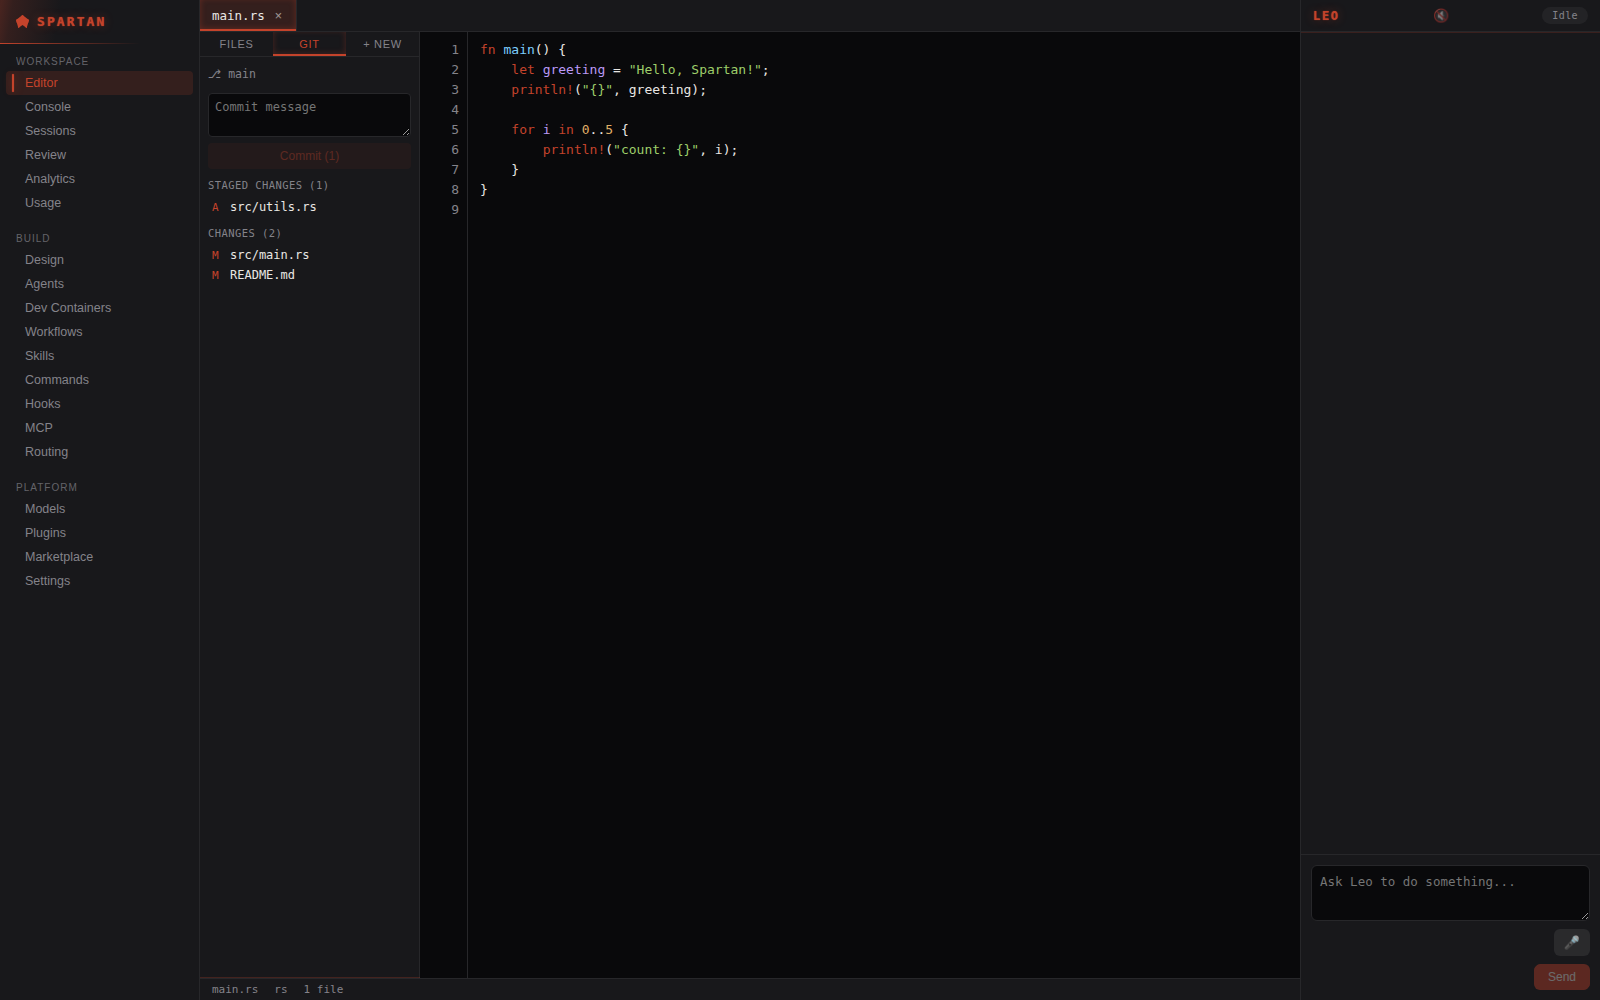
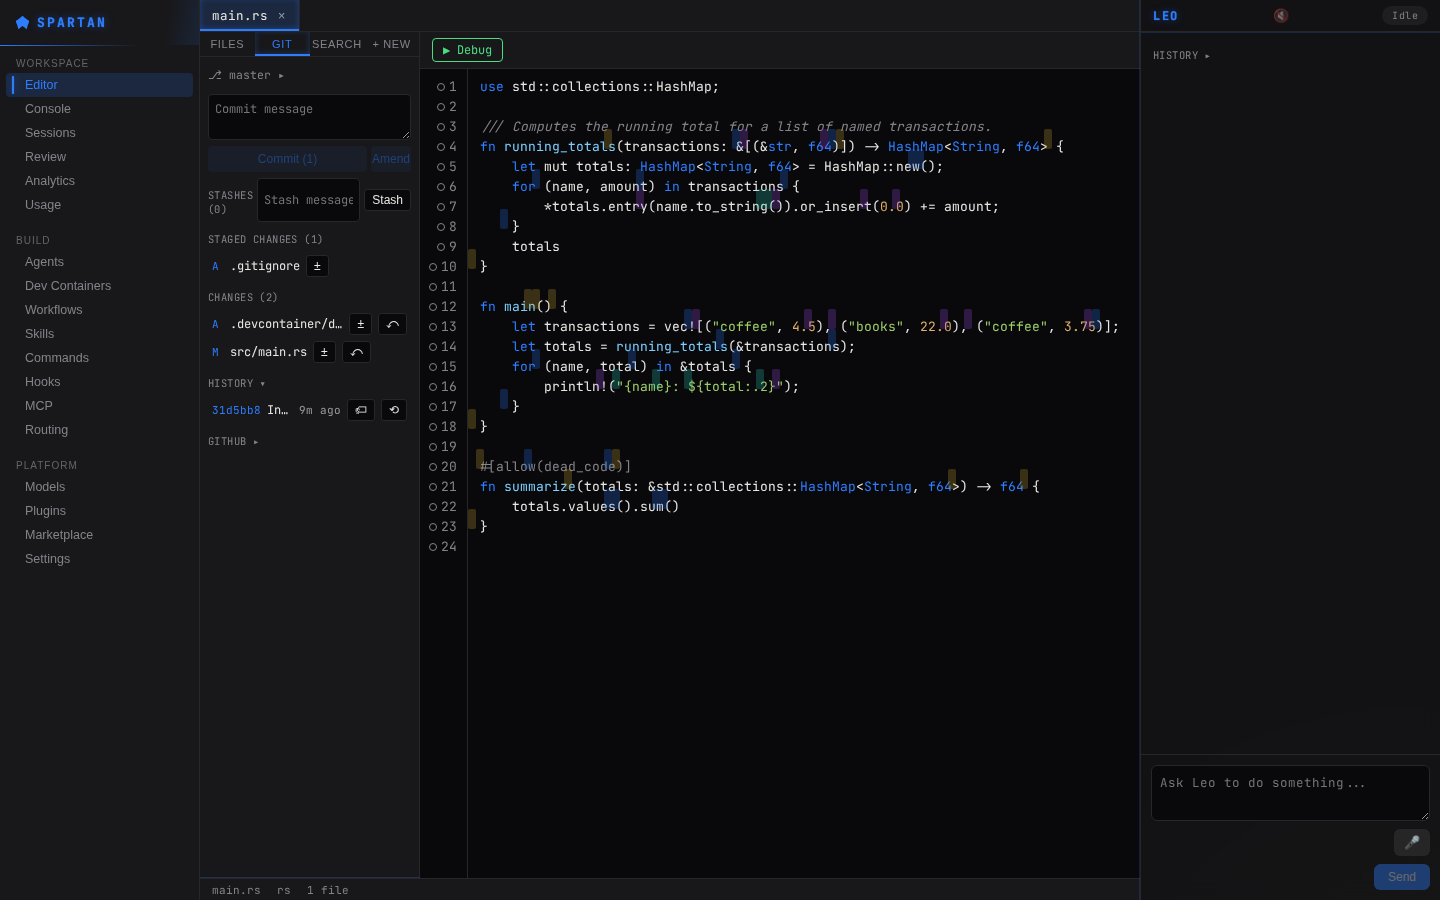
Refresh documentation and screenshots to match the current app
Screenshots in docs/screenshots/ predated the GUI Builder removal and
the many features shipped since (real tree-sitter highlighting,
bracket-pair colors, blue/gold rebrand, Git diff/branches/history,
Leo panel). Recaptured all 10 (6 desktop + 4 web) as real Playwright +
Chromium screenshots against a real spartan-devserver process and a
real git project fixture -- the desktop shots use the established
real-WebSocket-shim technique (window.spartan forwarding every call
over a genuine WebSocket, standing in only for Electron's unlaunchable
contextBridge hop), the web shots use web/'s own genuine
BackendClient.connect() with no shim at all.

Also corrected several README claims that had gone stale independent
of the screenshots: desktop/README.md said LSP and DAP had "no wiring
at all" in this shell, which stopped being true many increments ago;
web/README.md said Leo's chat UI, redo, and tree-sitter highlighting
were all still missing, and that only one file could be open at a
time -- all four are real now. Refreshed the site's stale hero
screenshot (still showed the removed Design nav item) the same way;
left the four theme screenshots for a follow-up pass.

Claude-Session: https://claude.ai/code/session_01UYLqWzwJvaRwECr3TTDG1t

diff --git a/web/README.md b/web/README.md
@@ -5,13 +5,13 @@ decision the user made explicitly (§75.85, §75.86): editing/buffer logic
 works standalone client-side in the browser (File System Access + WASM, no
 backend needed), with a second, independent backend-mode editing path
 activating whenever a local `spartan-devserver` instance is reachable over
-its real WebSocket transport (§75.88). **When a devserver is connected: Git,
-real LSP diagnostics/hover/autocomplete, real DAP breakpoint/step debugging,
-and real Android device/build/logcat tooling are all real and wired here —
-the one capability still missing versus the desktop shell is a Leo chat UI
-in this app specifically** (Leo's own backend methods are reachable, this
-app just has no chat panel calling them yet). See "What's not built yet"
-below for the honest, current account.
+its real WebSocket transport (§75.88). **When a devserver is connected: Git
+(including PR listing, per-hunk staging, branches, stash, tags, merge/
+cherry-pick), real LSP diagnostics/hover/autocomplete/rename/references,
+real DAP breakpoint/step/watch debugging, real Android device/build/logcat
+tooling, and a real, persistent Leo chat panel (task #285 — a direct port of
+`desktop/`'s own) are all real and wired here.** See "What's not built yet"
+below for the honest, current account of what's genuinely still missing.
 
 Inspired by vscode.dev's *concepts* only — a browser-based editor working
 directly against real local files via a native browser API, no server round
@@ -21,20 +21,24 @@ repository already applies to the desktop shells (no Monaco/CodeMirror
 
 ## Screenshots
 
-Real, unedited Playwright + Chromium captures of this exact app running
-against a real `vite dev` server. The native `showDirectoryPicker()` dialog
-can't be driven headlessly, so these use the same real, documented technique
-described above under "Real, executed verification" — an Origin Private File
-System directory substituted in for `window.showDirectoryPicker()`, real
-files written into it, then the app's own unmodified code opens and edits
-them normally.
+Real, unedited Playwright + Chromium captures of the actual compiled
+production build (`npm run build`) served by a real running
+`spartan-devserver` process against a real git project fixture, using the
+app's own genuine `BackendClient.connect()` — no mock, no shim of any kind.
+These show the backend-connected mode (Git, real tree-sitter syntax
+highlighting, Leo panel), the richer of `web/`'s two real editing paths and
+the one most of this project's recent feature work has landed in; the
+File System Access + WASM pure-client-side path (`components/Editor.tsx`,
+`components/FileTree.tsx`) is exercised instead by the headless
+File-System-Access-substitution technique described above under "Real,
+executed verification".
 
 | | |
 |---|---|
-| ![Initial empty state](../docs/screenshots/web/01-initial-empty-state.png) | ![Project opened, file tree](../docs/screenshots/web/02-project-opened-file-tree.png) |
-| Initial empty state — Chromium detected as supported, no fallback shown | A real project opened via the File System Access API, file tree populated |
+| ![Initial connected state](../docs/screenshots/web/01-initial-empty-state.png) | ![Project opened, file tree](../docs/screenshots/web/02-project-opened-file-tree.png) |
+| Connected to a local devserver — toolbar status, Leo panel, Backend file tree, no file open yet | The real Backend file tree expanded, showing a real project's directory structure |
 | ![Editor with syntax highlighting](../docs/screenshots/web/03-editor-with-syntax-highlighting.png) | ![Live editing with dirty marker](../docs/screenshots/web/04-editing-live-highlight-dirty-marker.png) |
-| Real client-side syntax highlighting via `highlight.js` | Live typing re-highlights immediately; status bar shows the real unsaved marker |
+| Real tree-sitter syntax highlighting, opened through the Backend file tree | Live typing re-highlights immediately; the tab and status bar show the real unsaved marker |
 forked/vendored either) — see the root `CLAUDE.md`.
 
 ## What's real here
@@ -50,16 +54,19 @@ forked/vendored either) — see the root `CLAUDE.md`.
   `src/buffer.ts` and that crate's own README/doc comments.
 - **Real save-to-disk** via the File System Access API's writable-stream
   interface (Ctrl+S).
-- **Real (single-step) undo** via the real `Document`'s own branching undo
-  tree, exposed through the WASM binding (Ctrl+Z). **No redo yet** — a real,
-  deliberate, named scope cut carried over verbatim from
-  `spartan-buffer-wasm`'s own doc comment; every other real Spartan UI
-  surface builds redo as a layer *above* `Document`, not inside it, and that
-  layer hasn't been built here yet.
-- **Real client-side syntax highlighting** via `highlight.js`, the same
-  approach and the same named fidelity tradeoff (lexical, not
-  tree-sitter/semantic) already used and documented in `desktop/src/syntax.ts`
-  — this file is a direct, unmodified copy of that one.
+- **Real undo and redo** via the real `Document`'s own branching undo tree,
+  exposed through the WASM binding (Ctrl+Z / Ctrl+Shift+Z / Ctrl+Y). Redo is
+  a thin layer above `Document` (a `redo_stack`), the same pattern every
+  other real Spartan UI surface already uses — closed in `spartan-buffer-
+  wasm` itself, matching this crate's own doc comment.
+- **Real client-side syntax highlighting** via a three-tier chain — real
+  tree-sitter (`web-tree-sitter`, in-process WASM parsing) for the 8
+  languages with a bundled grammar, `highlight.js` while a grammar is still
+  loading and for languages with none, plain escaped text as the final
+  fallback — the same chain, same capture-name-to-CSS mapping, and the same
+  incremental (per-document, not whole-file-per-keystroke) re-parse
+  `desktop/src/syntax.ts`/`treeSitter.ts` already use; this file is a direct
+  copy of those two.
 - **Real file tree** with lazy, on-demand directory listing through the same
   API, mirroring `desktop/src/components/FileTree.tsx`'s own lazy-expansion
   design.
@@ -95,13 +102,13 @@ forked/vendored either) — see the root `CLAUDE.md`.
 
 ## What's not built yet (named honestly, not silently missing)
 
-- **Git, LSP (diagnostics/hover/completion), DAP, and Android tooling are all
-  real and wired here now; Leo's own chat UI is the one real gap left in
-  this app specifically** (desktop/ has had a real, persistent Leo chat
-  panel since §75.61 — this section used to say the opposite, before those
-  later increments landed; kept the original account below since it's still
-  the real story of *how* the backend-mode path came to exist, just
-  corrected where it went stale). A later increment (Track A,
+- **Git, LSP (diagnostics/hover/completion/rename/references/call
+  hierarchy), DAP, Android tooling, and Leo's own chat panel are all real
+  and wired here now** (this section used to say Leo's chat UI was the one
+  real gap left in this app specifically — task #285 closed that; the
+  original account below is kept since it's still the real story of *how*
+  the backend-mode path came to exist, just corrected where it went stale).
+  A later increment (Track A,
   `crates/spartan-devserver`) answered the
   token-delivery design question this section used to name as unresolved:
   the devserver serves this app's own static files, so a same-origin
@@ -178,32 +185,31 @@ forked/vendored either) — see the root `CLAUDE.md`.
   generic `spartan-backend` dispatch method). Real, live, end-to-end
   verified against a real Android/Gradle fixture and this environment's
   own real (if device-less) `adb`/`gradle` installs.
-- **Leo's own chat UI is the one real capability gap left in this app.**
-  Every `leo_*` method Leo's execute/verify loop needs is already a real,
-  generic `spartan-backend` dispatch method reachable through
-  `BackendClient` with zero protocol changes required — the same shape
-  every other backend-mode feature above was closed with. No component
-  calls them from this app yet; that remains real, deliberately deferred,
-  unstarted follow-up work, not a design limitation.
+- **Leo's own chat panel is real and wired in (task #285).** `LeoChatPanel.tsx`
+  is a direct port of `desktop/`'s own — same real state machine, same
+  `leo_start_task`/`leo_approve_plan`/`leo_next_step`/`leo_approve_call`/
+  `leo_retry`/`leo_cancel`/`leo_session_history` dispatch methods, same
+  random-thoughts/voice-I/O features — reached over `BackendClient` with
+  zero protocol changes (every method was already a generic
+  `spartan-backend` dispatch method). Docked as a persistent sidebar
+  whenever a devserver connection is live, matching `desktop/`'s own
+  always-visible placement.
 - **The two editing paths are independent, not unified.** A real, named
   consequence, not an oversight: the folder opened via "Open Folder…"
   (File System Access) and the devserver's own project root
   (`--project-root:`) can be different directories — nothing in this app
-  verifies they match, and `activeContent` only ever holds one open file
-  at a time regardless of which path opened it last. In the common case
-  (the devserver is launched from the same project the user opens), the
-  two happen to agree, but this app makes no attempt to enforce or check
-  that.
-- **Single file open at a time, across both paths combined.** No tabs, no
-  multi-file model — a real, narrow first-increment scope, the same kind
-  of deliberate v1 cut this project's own history already applies
-  elsewhere.
+  verifies they match. In the common case (the devserver is launched from
+  the same project the user opens), the two happen to agree, but this app
+  makes no attempt to enforce or check that.
+- **Multi-file tabs are real (task #257)**, covering both editing paths
+  combined — `openTabs`/`activeIndex` in `App.tsx` hold every open file (of
+  either kind) as one derived-state tab model, reusing an already-open tab
+  of the same kind+path rather than duplicating it, matching `desktop/`'s
+  own tab-bar convention.
 - **Chromium-only.** The File System Access API is not implemented in
   Firefox or Safari. This is a real, permanent platform limit, not a bug —
   the app detects this and shows an honest message instead of failing
   silently or crashing.
-- **No tree-sitter.** Same lexical-only tradeoff `desktop/`'s own editor
-  already carries and documents.
 
 ## Layout
 

diff --git a/desktop/README.md b/desktop/README.md
@@ -45,15 +45,29 @@ deleted).
 
 A real audit (§75.62) originally found several real, working wgpu-shell
 features not yet ported here. Since closed: syntax highlighting (§75.63,
-via `highlight.js` client-side rather than tree-sitter -- see
-`src/syntax.ts`'s own doc comment for the named fidelity tradeoff), a real
-terminal (Console) and multi-CLI Sessions (§75.64, streaming PTY output
-over Leo's own async `Event` mechanism), and a real Git panel + Settings
-screen (§75.65). **Still real, open gaps**: LSP and DAP (this shell has
-no language-server or debugger wiring at all -- `spartan-editor-core`
-remains the only place either is real), and the unsaved-changes
-confirmation modal on close/switch (closing a dirty tab here currently
-discards changes silently). Each screen without real content still has a
+originally via `highlight.js`, since replaced by a real three-tier chain
+-- in-process tree-sitter (`web-tree-sitter`) for languages with a bundled
+grammar, `highlight.js` while a grammar loads or for languages with none,
+plain text as the final fallback -- see `src/syntax.ts`/`src/treeSitter.ts`),
+a real terminal (Console) and multi-CLI Sessions (§75.64, streaming PTY
+output over Leo's own async `Event` mechanism), and a real Git panel +
+Settings screen (§75.65). **LSP and DAP are both real and wired here too**
+(`crates/spartan-lsp`/`crates/spartan-dap`, real second promotions of the
+wgpu shell's own `lsp.rs`/`dap.rs` for a background-thread IPC consumer):
+diagnostics, hover, completion, go-to-definition/type-definition, signature
+help, find-references, rename, document symbols/highlights, call hierarchy
+on the LSP side; breakpoints (plain and conditional/logpoint), step/
+continue, watch expressions, set-variable, and real captured stdout/
+stderr/logpoint output on the DAP side -- this section used to say neither
+existed at all in this shell, which is no longer true and hasn't been for
+a long time. **Still real, open gaps**: the unsaved-changes confirmation
+modal on close/switch (closing a dirty tab here currently discards
+changes silently), and code actions/workspace-symbol search/semantic
+tokens/inlay hints (investigated and found genuinely unverifiable in this
+project's own sandboxed dev environment -- `pyright-langserver`, the only
+real LSP server installed here, declares or exercises none of them
+usefully -- so none were built rather than shipped unverified; see
+`docs/FUTURE_FEATURES.md`). Each screen without real content still has a
 specific, honest note in `nav.ts`'s `SCREEN_NOTES` rather than a generic
 "coming soon."
 
@@ -78,24 +92,31 @@ an actual successful model response.
 
 ## Screenshots
 
-Real, unedited Playwright + Chromium captures against a real Vite dev
-server, using this project's own established "mocked `window.spartan`"
-verification technique (the renderer's real, unmodified code driven against
-a real in-browser stand-in for the `contextBridge` IPC surface, since the
-real Electron binary itself remains unlaunchable in every session so far —
-see "A real, environment-specific gap" below). All seven screens below are
-the actual, real React components — nothing here is a static mockup.
+Real, unedited Playwright + Chromium captures of the actual compiled
+production build (`npm run build`), served statically by a real
+`spartan-devserver` process against a real git project fixture — using
+this project's own established real-WebSocket-shim verification
+technique (a thin `window.spartan` that forwards every `call`/`onEvent`
+over a genuine WebSocket connection to the real backend, standing in
+only for Electron's own `contextBridge` preload hop, never for any
+actual application logic or IPC data — since the real Electron binary
+itself remains unlaunchable in every session so far, see "A real,
+environment-specific gap" below). Every value on screen — file tree
+entries, diffs, commit history, syntax highlighting — is a real response
+from the real backend, not fixture/mock data. All seven screens below
+are the actual, real React components — nothing here is a static
+mockup.
 
 | | |
 |---|---|
 | ![Editor main screen](../docs/screenshots/desktop/01-editor-main-screen.png) | ![Git panel](../docs/screenshots/desktop/02-git-panel.png) |
-| Editor screen: 3-tier nav, file tree, tabs, syntax highlighting, status bar, Leo panel | Source Control panel: real staged/unstaged split, commit box |
+| Editor screen: 3-tier nav, file tree, tabs, real tree-sitter syntax highlighting + bracket-pair colors, status bar, Leo panel | Source Control panel: real staged/unstaged split, commit history, stash |
 | ![Settings screen](../docs/screenshots/desktop/03-settings-screen.png) | ![Workflows screen](../docs/screenshots/desktop/04-workflows-screen.png) |
 | Settings: editor, appearance, GPU offload, Leo approval mode & provider | Workflows: a real `@xyflow/react` node graph (Claude/Codex/Gemini) |
 | ![Dev Containers screen](../docs/screenshots/desktop/06-devcontainers-screen.png) | |
 | Dev Containers: a real detected `devcontainer.json` config, ready to start | |
 | ![Editor with Leo panel](../docs/screenshots/desktop/07-editor-with-leo-panel.png) | |
-| Leo's persistent chat panel, idle and ready for a task | |
+| Editor with the file tree open and a real task typed into Leo's persistent chat panel | |
 
 ## Build & run
 

diff --git a/README.md b/README.md
@@ -35,25 +35,29 @@ chrome, backed by the real Rust buffer over IPC, not a vendored component.
 
 ## Screenshots
 
-Real, unedited Playwright + Chromium captures of the actual running React components —
-not mockups. The desktop shots use this project's own established "mocked
-`window.spartan`" verification technique (see `desktop/README.md`), since the real
-Electron binary itself remains unlaunchable in every session so far (a standing,
-reported-not-routed-around network policy block — see `desktop/README.md`'s own
-"environment-specific gap" section). The web shots run against a real `vite dev`
-server with no mocking beyond substituting the native folder-picker dialog, which can't
-be driven headlessly.
+Real, unedited Playwright + Chromium captures of the actual running React components
+against a real running `spartan-backend`/`spartan-devserver` process and a real git
+project fixture — not mockups, not fabricated data. The desktop shots use this
+project's own established real-WebSocket-shim technique (see `desktop/README.md`),
+since the real Electron binary itself remains unlaunchable in every session so far (a
+standing, reported-not-routed-around network policy block — see `desktop/README.md`'s
+own "environment-specific gap" section); the shim only stands in for Electron's
+`contextBridge` preload hop, every IPC call and response is real. The web shots run
+directly against `web/`'s own genuine `BackendClient.connect()` — no shim needed at
+all — in the backend-connected mode added since the GUI Builder removal (real
+tree-sitter syntax highlighting, Git panel, Leo chat panel, LSP diagnostics).
 
 | | |
 |---|---|
 | ![Editor screen](docs/screenshots/desktop/01-editor-main-screen.png) | ![Git panel](docs/screenshots/desktop/02-git-panel.png) |
-| Desktop: Editor screen — 3-tier nav, file tree, tabs, real syntax highlighting, Leo panel | Desktop: real Source Control panel |
+| Desktop: Editor screen — 3-tier nav, file tree, tabs, real tree-sitter syntax highlighting + bracket-pair colors, Leo panel | Desktop: real Source Control panel — staged/unstaged split, commit history |
 | ![Web app editor](docs/screenshots/web/03-editor-with-syntax-highlighting.png) | ![Workflows screen](docs/screenshots/desktop/04-workflows-screen.png) |
-| Web: the browser-based editor (`web/`), File System Access API + WASM buffer | Desktop: Workflows — a real `@xyflow/react` multi-CLI node graph |
+| Web: the browser-based editor (`web/`) connected to a local devserver, real syntax highlighting | Desktop: Workflows — a real `@xyflow/react` multi-CLI node graph |
 
-More screens (Settings, Dev Containers, the web app's file tree and
-live-editing states) are in `docs/screenshots/desktop/` and `docs/screenshots/web/`, and
-embedded with full captions in `desktop/README.md` and `web/README.md`.
+More screens (Settings, Dev Containers, editing with Leo panel, the web app's file
+tree and live-editing states) are in `docs/screenshots/desktop/` and
+`docs/screenshots/web/`, and embedded with full captions in `desktop/README.md` and
+`web/README.md`.
 
 ## Beta downloads & live documentation
 
